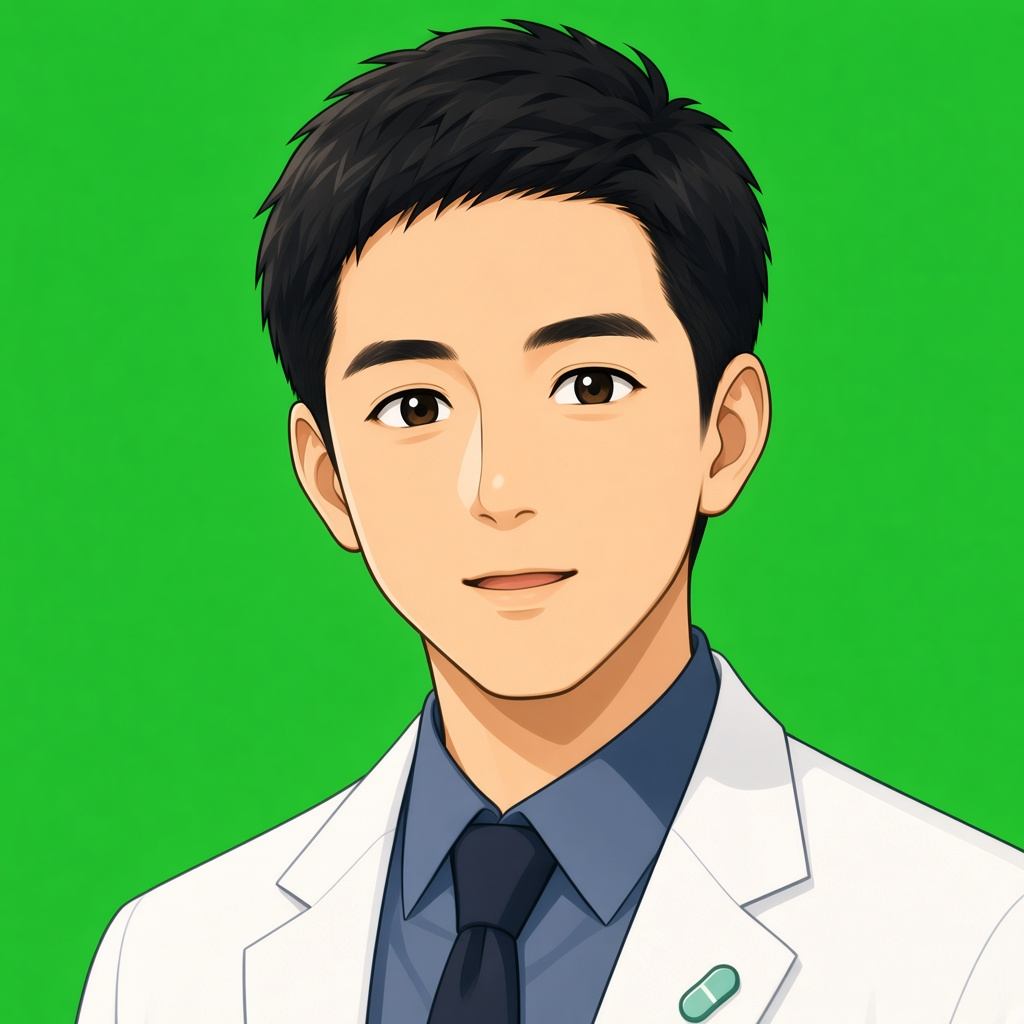
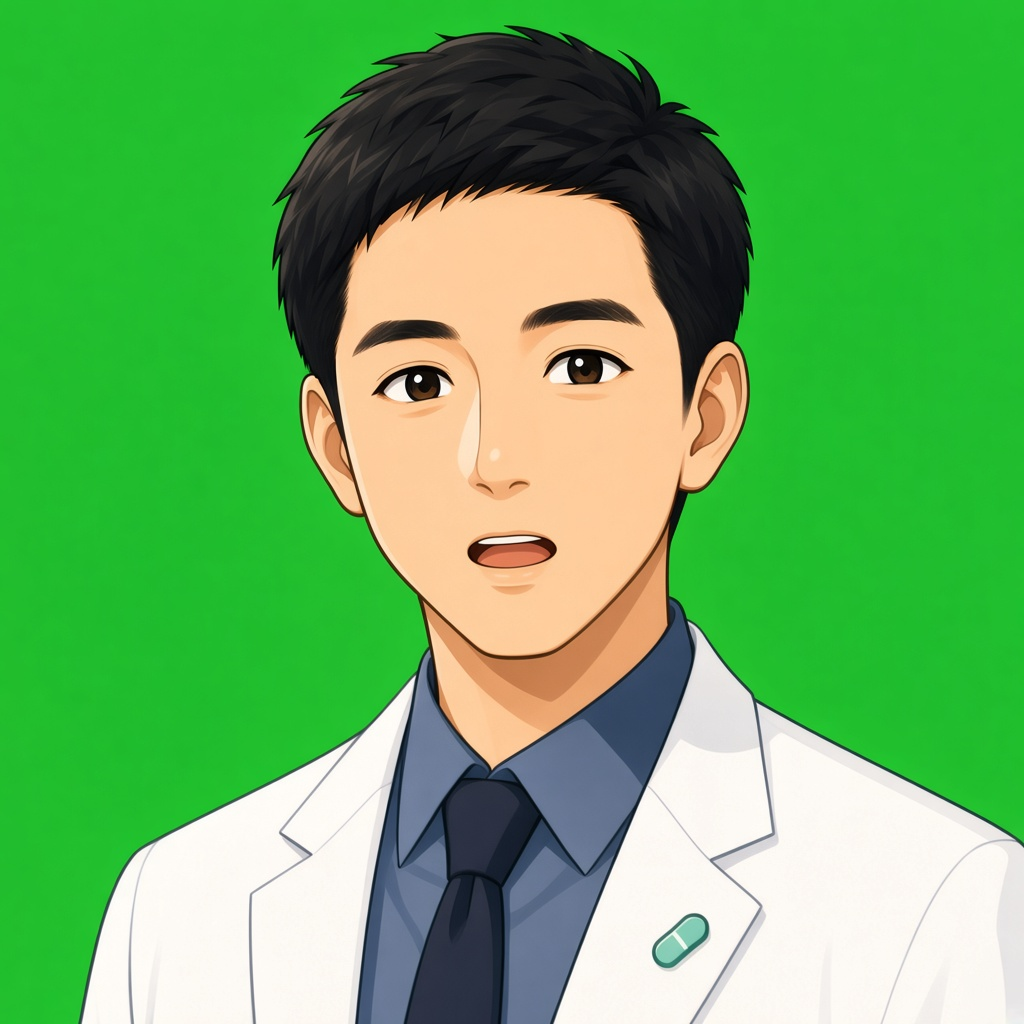
feat(live2d): expand expression sets to A/C/D; refine B visemes
Confirm Character B sheets, replace い/え mouths with stronger
contrast, and roll out the same E0–E5, viseme, and blink sheet
set to Characters A, C, and D for review.

diff --git a/static/img/live2d/concept/whitecoat/cast-unified/EXPRESSIONS_README.md b/static/img/live2d/concept/whitecoat/cast-unified/EXPRESSIONS_README.md
@@ -1,0 +1,16 @@
+# 4名キャスト — Live2D 表情セット（レビュー用）
+
+| キャラ | フォルダ | 状態 |
+|--------|----------|------|
+| B（白衣正本） | `expressions-b/` | **確定**（口形い/えは差強調版に更新） |
+| A | `expressions-a/` | 横展開・レビュー待ち |
+| C | `expressions-c/` | 横展開・レビュー待ち |
+| D | `expressions-d/` | 横展開・レビュー待ち |
+
+各フォルダに:
+- `sheet-*-expressions.jpg` … E0–E5
+- `sheet-*-mouths.jpg` … 閉・あいうえお
+- `sheet-*-eyes.jpg` … 開／半目／目閉じ
+- 個別 JPG
+
+共通仕様: 白衣統一版維持、クロマキー緑、強度中、バストアップ正面やや寄り。
